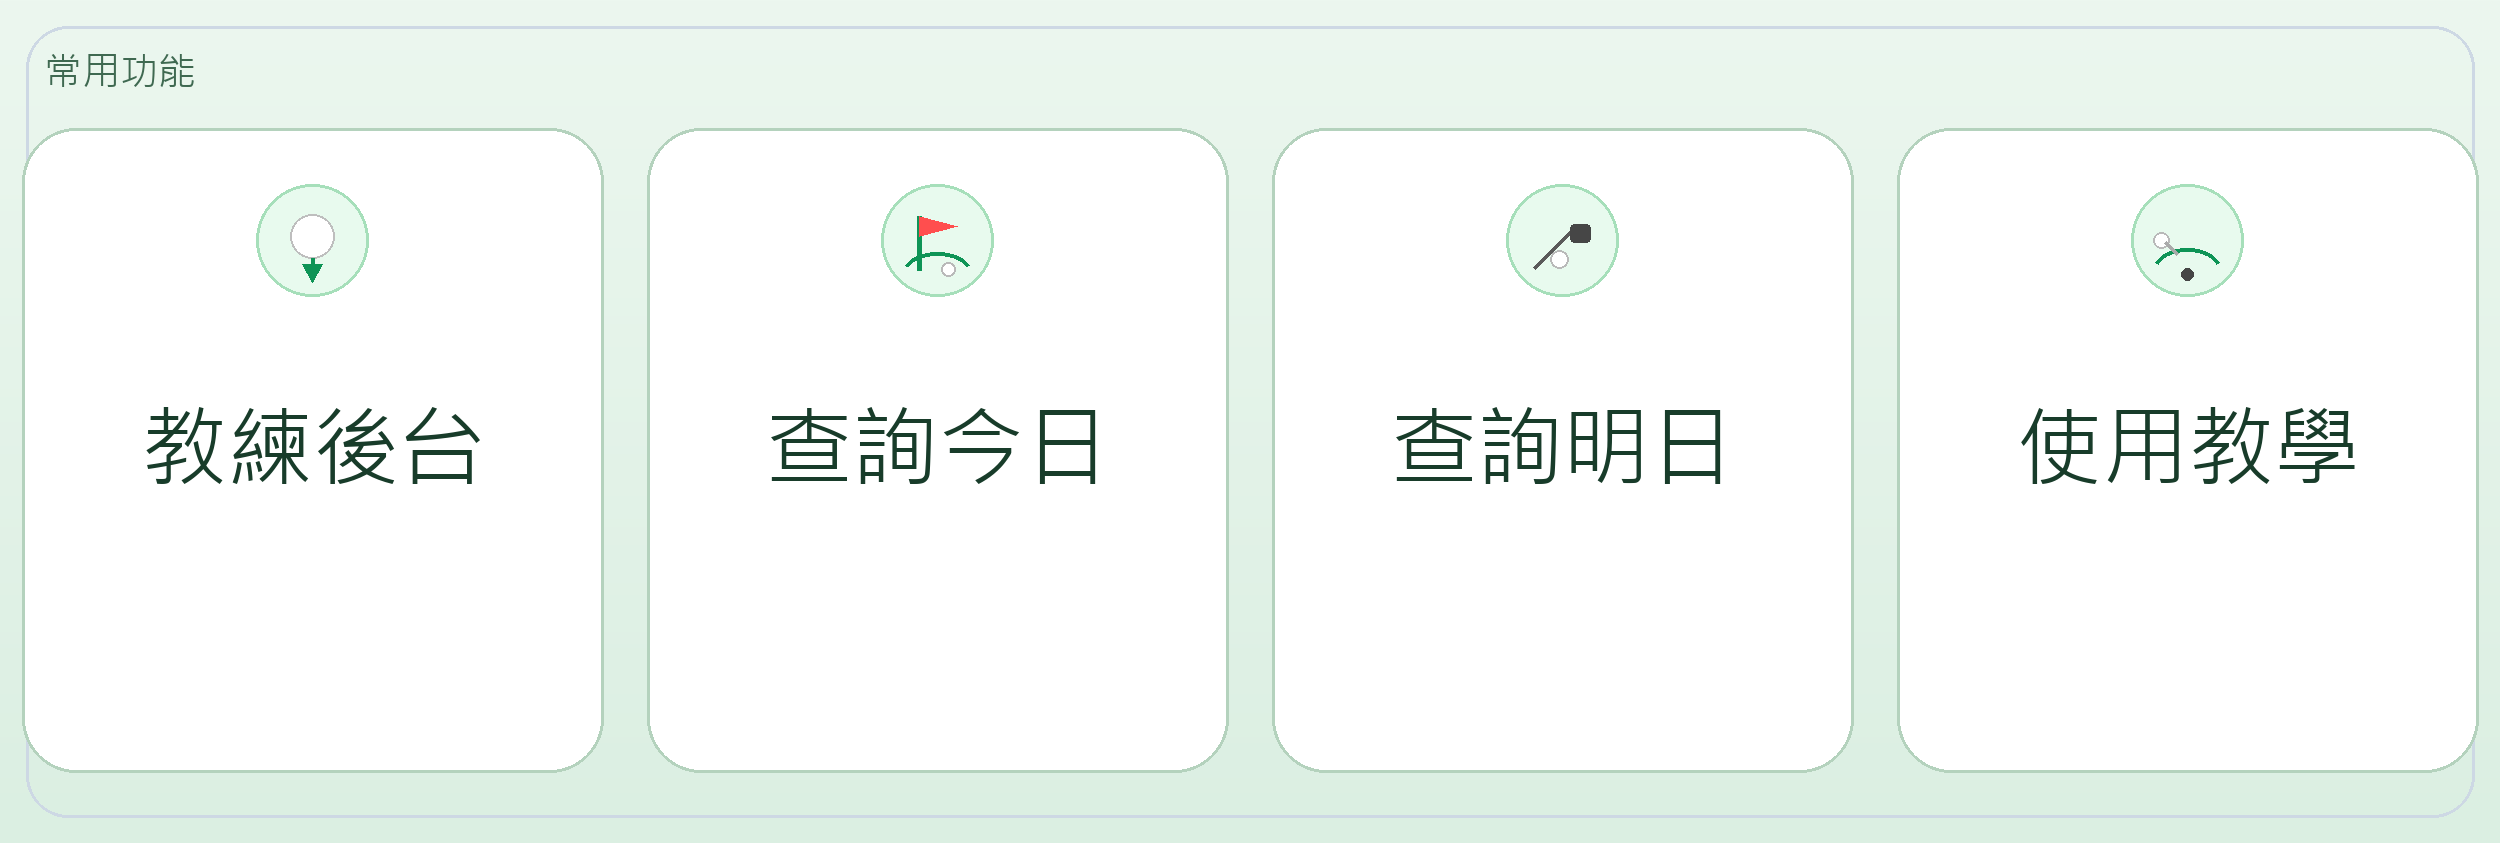
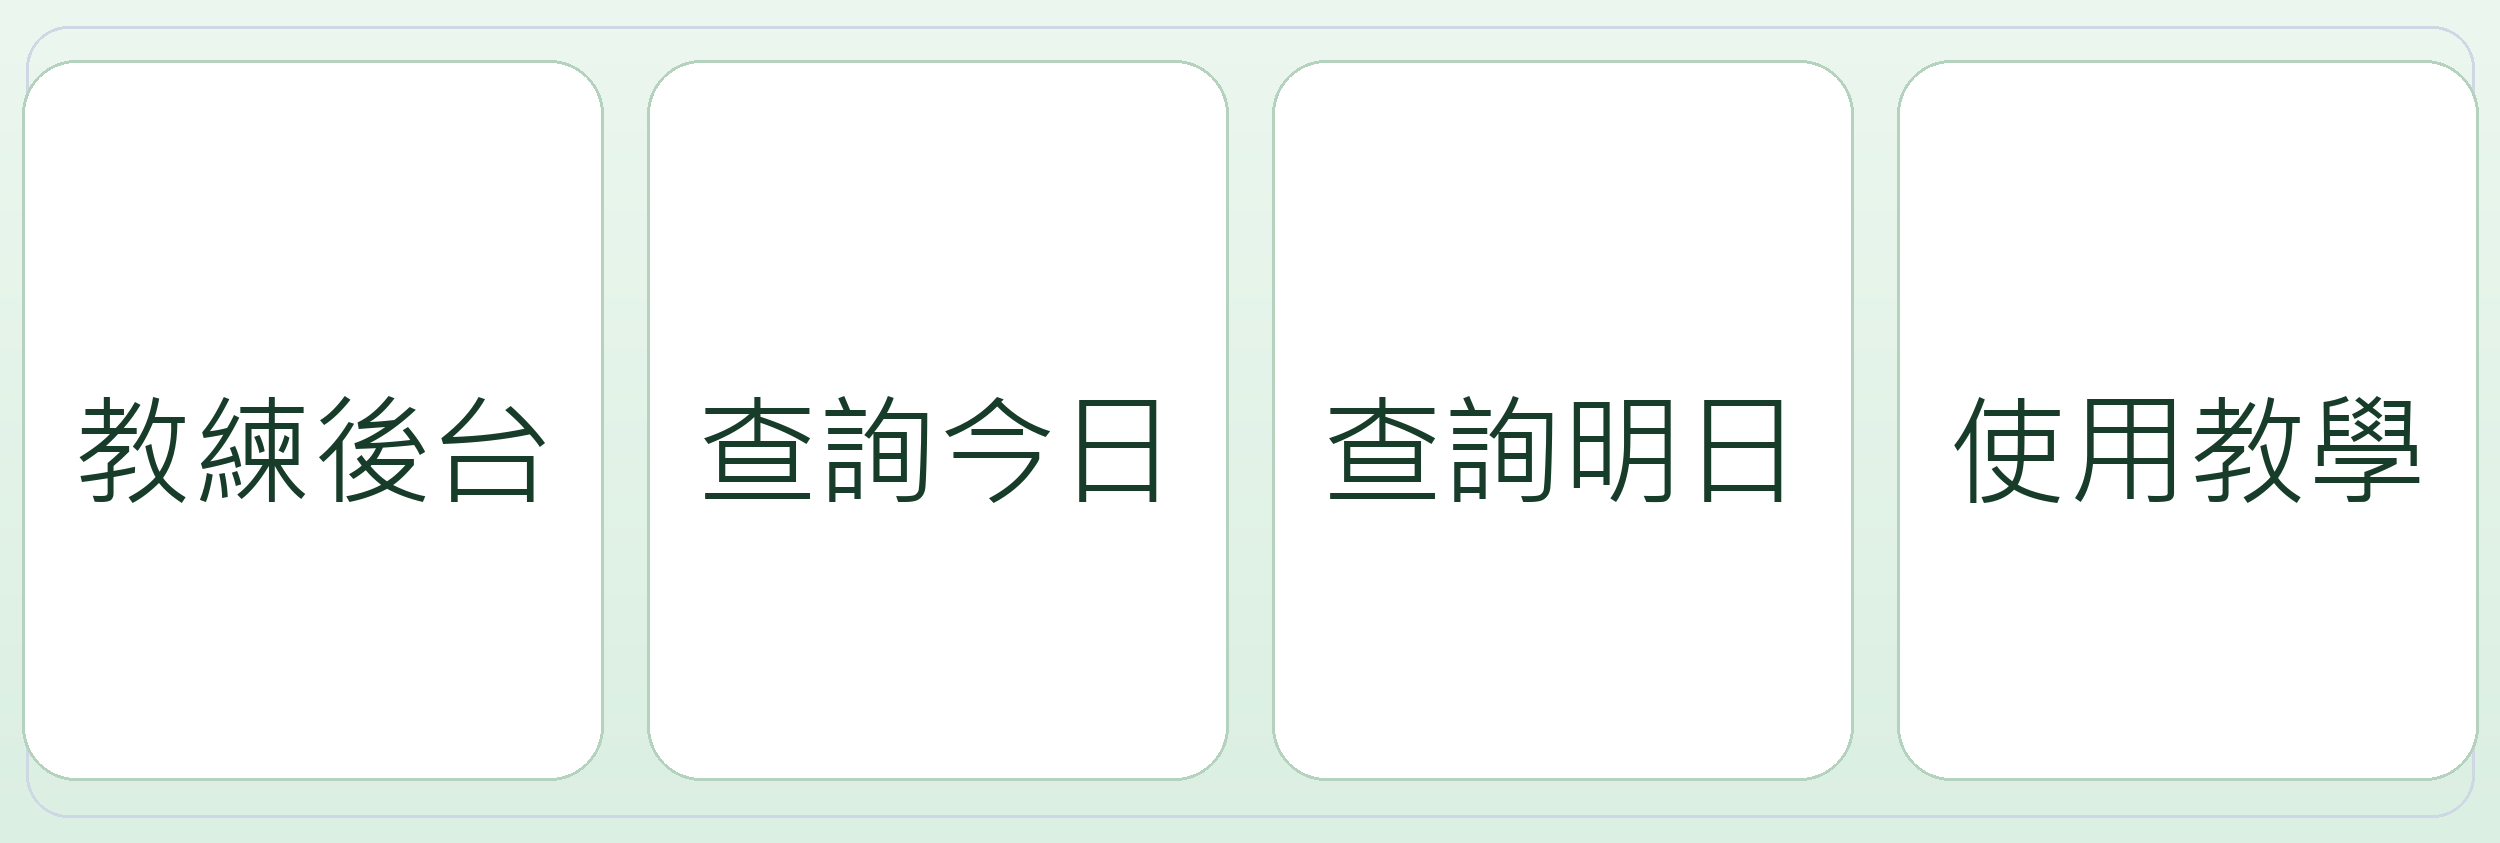
feat: Split deduct/add tabs, auto-ask name, deduct creates booking, revenue date filter, rich menu redesign
- Split coach credit tab into separate deduct and add-credit pages
- Auto-ask new students for their real name on first message
- Deduct credits now creates a completed booking record for history tracking
- Revenue summary API supports from/to date range filter
- Rich menu: larger text, no icons
- Deploy to correct GCP project (golf-coach-aebcd)

diff --git a/rebuild/liff/coach/index.html b/rebuild/liff/coach/index.html
@@ -8,7 +8,7 @@
   <title>高爾夫預約</title>
   <script src="https://static.line-scdn.net/liff/edge/2/sdk.js"></script>
   <script>
-    window.APP_VERSION = '20260407-224639';
+    window.APP_VERSION = '20260408-201552';
     (function forceLatestVersion() {
       try {
         const url = new URL(window.location.href);
@@ -109,22 +109,30 @@
   <div id="loading">載入中...</div>
   <div id="coachApp" class="hidden">
     <div class="tabs">
-      <span class="tab active" data-tab="credit">扣課/加課</span>
+      <span class="tab active" data-tab="deduct">扣課</span>
+      <span class="tab" data-tab="addcredit">加課</span>
       <span class="tab" data-tab="students">學員明細</span>
       <span class="tab" data-tab="schedule">上課時間</span>
       <span class="tab" data-tab="leave">休假設定</span>
       <span class="tab" data-tab="revenue">收入統計</span>
     </div>
-    <div id="credit" class="card">
-      <h2>扣課 / 加課</h2>
-      <select id="studentSelect"><option value="">請選擇學員</option></select>
-      <input type="number" id="creditAmount" placeholder="堂數（正數加課、負數扣課）">
-      <input type="text" id="creditRealName" placeholder="本名（加課時填，用於核銷）">
-      <input type="date" id="creditStartDate" placeholder="起始日期">
-      <input type="number" id="creditPrice" placeholder="金額（選填，NT$）">
-      <input type="text" id="creditNote" placeholder="備註（方案名稱，選填）">
-      <input type="text" id="creditLessonNote" placeholder="上課內容（扣課時填，例如：練習推桿）">
-      <button id="btnCredit">送出</button>
+    <div id="deduct" class="card">
+      <h2>扣課</h2>
+      <select id="deductStudentSelect"><option value="">請選擇學員</option></select>
+      <input type="number" id="deductAmount" placeholder="扣課堂數" min="1">
+      <input type="text" id="deductLessonNote" placeholder="上課內容（例如：練習推桿）">
+      <input type="text" id="deductNote" placeholder="備註（選填）">
+      <button id="btnDeduct">扣課</button>
+    </div>
+    <div id="addcredit" class="card hidden">
+      <h2>加課（開課）</h2>
+      <select id="addStudentSelect"><option value="">請選擇學員</option></select>
+      <input type="number" id="addAmount" placeholder="堂數" min="1">
+      <input type="text" id="addRealName" placeholder="本名（用於核銷）">
+      <input type="date" id="addStartDate" placeholder="起始日期">
+      <input type="number" id="addPrice" placeholder="金額（NT$）">
+      <input type="text" id="addNote" placeholder="方案名稱（選填）">
+      <button id="btnAddCredit">開課</button>
     </div>
     <div id="students" class="card hidden">
       <h2>學員明細</h2>
@@ -171,6 +179,12 @@
     </div>
     <div id="revenue" class="card hidden">
       <h2>收入統計</h2>
+      <div class="schedule-toolbar" style="margin-bottom:12px;">
+        <input type="date" id="revenueFrom" style="flex:1;min-width:130px;">
+        <input type="date" id="revenueTo" style="flex:1;min-width:130px;">
+        <button type="button" id="btnSearchRevenue" class="btn-secondary">查詢區間</button>
+        <button type="button" id="btnRevenueAll" class="btn-secondary">全部</button>
+      </div>
       <div id="revenueSummary" style="display:grid; grid-template-columns:1fr 1fr 1fr; gap:10px; margin-bottom:16px;">
         <div style="background:#e8f5e9; border-radius:10px; padding:12px; text-align:center;">
           <div style="font-size:12px; color:#666;">預收現金</div>
@@ -381,18 +395,20 @@
 
     async function loadStudents() {
       const listDiv = document.getElementById('studentList');
-      const sel = document.getElementById('studentSelect');
+      const deductSel = document.getElementById('deductStudentSelect');
+      const addSel = document.getElementById('addStudentSelect');
       listDiv.innerHTML = '<p class="muted">載入學員資料中...</p>';
       try {
         const res = await fetch(`${API_URL}/api/liff/students?userId=${userId}`);
         const { students } = await res.json();
-        sel.innerHTML = '<option value="">請選擇學員</option>';
+        const optionsHtml = '<option value="">請選擇學員</option>';
+        deductSel.innerHTML = optionsHtml;
+        addSel.innerHTML = optionsHtml;
         const rows = (students || []).map(s => {
           const label = s.alias || s.displayName || s.lineUserId;
-          const opt = document.createElement('option');
-          opt.value = s.lineUserId;
-          opt.textContent = `${label} (${s.lineUserId.slice(0, 8)}...)`;
-          sel.appendChild(opt);
+          const optText = `${label} (${s.lineUserId.slice(0, 8)}...)`;
+          deductSel.appendChild(Object.assign(document.createElement('option'), { value: s.lineUserId, textContent: optText }));
+          addSel.appendChild(Object.assign(document.createElement('option'), { value: s.lineUserId, textContent: optText }));
           return {
             lineUserId: s.lineUserId,
             label,
@@ -602,16 +618,18 @@
       document.querySelectorAll('#coachApp .tab').forEach(t => {
         t.addEventListener('click', () => {
           document.querySelectorAll('#coachApp .tab').forEach(x => x.classList.remove('active'));
-          document.querySelectorAll('#credit, #students, #schedule, #leave, #revenue').forEach(x => x.classList.add('hidden'));
+          document.querySelectorAll('#deduct, #addcredit, #students, #schedule, #leave, #revenue').forEach(x => x.classList.add('hidden'));
           t.classList.add('active');
           document.getElementById(t.dataset.tab).classList.remove('hidden');
           if (t.dataset.tab === 'students') loadStudents();
           if (t.dataset.tab === 'schedule') { loadCoachSchedule(); loadFixedSchedules(); }
-          if (t.dataset.tab === 'revenue') loadRevenue();
+          if (t.dataset.tab === 'revenue') loadRevenue(document.getElementById('revenueFrom').value, document.getElementById('revenueTo').value);
         });
       });
       document.getElementById('btnReloadStudents').addEventListener('click', () => loadStudents());
       document.getElementById('btnSearchSchedule').addEventListener('click', () => loadCoachSchedule());
+      document.getElementById('btnSearchRevenue').addEventListener('click', () => loadRevenue(document.getElementById('revenueFrom').value, document.getElementById('revenueTo').value));
+      document.getElementById('btnRevenueAll').addEventListener('click', () => { document.getElementById('revenueFrom').value = ''; document.getElementById('revenueTo').value = ''; loadRevenue(); });
       document.getElementById('btnAddFixed').addEventListener('click', async () => {
         const weekday = document.getElementById('fixedWeekday').value;
         const startTime = document.getElementById('fixedStartTime').value;
@@ -710,54 +728,56 @@
         onlyWithRemaining = !!e.target.checked;
         renderStudentDetails();
       });
-      document.getElementById('btnCredit').addEventListener('click', async () => {
-        const targetUserId = document.getElementById('studentSelect').value;
-        const amount = parseInt(document.getElementById('creditAmount').value, 10);
-        const note = document.getElementById('creditNote').value.trim();
-        const lessonNote = document.getElementById('creditLessonNote').value.trim();
-        const realName = document.getElementById('creditRealName').value.trim();
-        const startDate = document.getElementById('creditStartDate').value;
-        const price = document.getElementById('creditPrice').value;
-        if (!targetUserId || !amount) { showToast('請選擇學員並輸入堂數', 'error'); return; }
-        document.getElementById('btnCredit').disabled = true;
-        const isAdd = amount > 0;
+      document.getElementById('btnDeduct').addEventListener('click', async () => {
+        const targetUserId = document.getElementById('deductStudentSelect').value;
+        const amount = parseInt(document.getElementById('deductAmount').value, 10);
+        const lessonNote = document.getElementById('deductLessonNote').value.trim();
+        const note = document.getElementById('deductNote').value.trim();
+        if (!targetUserId || !amount || amount <= 0) { showToast('請選擇學員並輸入扣課堂數', 'error'); return; }
+        document.getElementById('btnDeduct').disabled = true;
         try {
-          const url = isAdd ? `${API_URL}/api/liff/add-credits` : `${API_URL}/api/liff/deduct-credits`;
-          const body = isAdd
-            ? {
-                coachUserId: userId,
-                targetUserId,
-                credits: amount,
-                title: note || '手動加課',
-                validTo: null,
-                validFrom: startDate || null,
-                realName: realName || null,
-                price: price ? Number(price) : null,
-              }
-            : {
-                coachUserId: userId,
-                targetUserId,
-                amount: -amount,   // amount is negative, send positive
-                note: note || null,
-                lessonNote: lessonNote || null,
-              };
-          const res = await fetch(url, { method: 'POST', headers: { 'Content-Type': 'application/json' }, body: JSON.stringify(body) });
+          const res = await fetch(`${API_URL}/api/liff/deduct-credits`, {
+            method: 'POST', headers: { 'Content-Type': 'application/json' },
+            body: JSON.stringify({ coachUserId: userId, targetUserId, amount, note: note || null, lessonNote: lessonNote || null })
+          });
           const data = await res.json();
           if (data.ok) {
-            const msg = isAdd
-              ? '開課成功！已通知學員\n即將關閉視窗…'
-              : `扣課成功！剩餘 ${data.remaining} 堂\n即將關閉視窗…`;
-            showToast(msg, 'success', 2200);
-            setTimeout(() => {
-              try { if (liff.isInClient()) liff.closeWindow(); } catch(e) {}
-            }, 1800);
+            showToast(`扣課成功！剩餘 ${data.remaining} 堂\n即將關閉視窗…`, 'success', 2200);
+            setTimeout(() => { try { if (liff.isInClient()) liff.closeWindow(); } catch(e) {} }, 1800);
           } else {
-            showToast(data.error || '送出失敗，請重試', 'error');
-            document.getElementById('btnCredit').disabled = false;
+            showToast(data.error || '扣課失敗', 'error');
+            document.getElementById('btnDeduct').disabled = false;
           }
         } catch (e) {
           showToast('請確認網路連線', 'error');
-          document.getElementById('btnCredit').disabled = false;
+          document.getElementById('btnDeduct').disabled = false;
+        }
+      });
+      document.getElementById('btnAddCredit').addEventListener('click', async () => {
+        const targetUserId = document.getElementById('addStudentSelect').value;
+        const credits = parseInt(document.getElementById('addAmount').value, 10);
+        const realName = document.getElementById('addRealName').value.trim();
+        const startDate = document.getElementById('addStartDate').value;
+        const price = document.getElementById('addPrice').value;
+        const note = document.getElementById('addNote').value.trim();
+        if (!targetUserId || !credits || credits <= 0) { showToast('請選擇學員並輸入堂數', 'error'); return; }
+        document.getElementById('btnAddCredit').disabled = true;
+        try {
+          const res = await fetch(`${API_URL}/api/liff/add-credits`, {
+            method: 'POST', headers: { 'Content-Type': 'application/json' },
+            body: JSON.stringify({ coachUserId: userId, targetUserId, credits, title: note || '手動加課', validTo: null, validFrom: startDate || null, realName: realName || null, price: price ? Number(price) : null })
+          });
+          const data = await res.json();
+          if (data.ok) {
+            showToast('開課成功！已通知學員\n即將關閉視窗…', 'success', 2200);
+            setTimeout(() => { try { if (liff.isInClient()) liff.closeWindow(); } catch(e) {} }, 1800);
+          } else {
+            showToast(data.error || '開課失敗', 'error');
+            document.getElementById('btnAddCredit').disabled = false;
+          }
+        } catch (e) {
+          showToast('請確認網路連線', 'error');
+          document.getElementById('btnAddCredit').disabled = false;
         }
       });
       document.getElementById('btnLeave').addEventListener('click', async () => {
@@ -780,14 +800,17 @@
       });
     }
 
-    async function loadRevenue() {
+    async function loadRevenue(fromDate, toDate) {
       const listDiv = document.getElementById('revenueStudentList');
       listDiv.innerHTML = '<p class="muted">載入收入統計中...</p>';
       document.getElementById('revTotalPaid').textContent = '-';
       document.getElementById('revEarned').textContent = '-';
       document.getElementById('revUnearned').textContent = '-';
       try {
-        const res = await fetch(`${API_URL}/api/liff/revenue-summary?userId=${encodeURIComponent(userId)}`);
+        let url = `${API_URL}/api/liff/revenue-summary?userId=${encodeURIComponent(userId)}`;
+        if (fromDate) url += `&from=${encodeURIComponent(fromDate)}`;
+        if (toDate) url += `&to=${encodeURIComponent(toDate)}`;
+        const res = await fetch(url);
         const data = await res.json();
         if (!res.ok || data.error) {
           listDiv.innerHTML = `<p class="muted">${data.error || '載入失敗'}</p>`;

diff --git a/rebuild/src/routes/liff.ts b/rebuild/src/routes/liff.ts
@@ -1,4 +1,5 @@
 import { FastifyInstance } from 'fastify';
+import { getDb, admin } from '../config/firebase';
 import { getOrCreateUser, getUser, listStudentsWithAlias, setAlias } from '../services/user';
 import { getActivePackages, addCredits, deductCredits, getAllPackagesForRevenue } from '../services/package';
 import { addLeave, listLeaves } from '../services/coachLeave';
@@ -272,6 +273,25 @@ export async function liffRoutes(app: FastifyInstance): Promise<void> {
     } catch (err: any) {
       return reply.status(400).send({ ok: false, error: err.message ?? '扣課失敗' });
     }
+    // 扣課時同時建立 completed booking 紀錄，讓上課紀錄查得到
+    const deductDate = getDateInTaipei();
+    const nowTs = admin.firestore.FieldValue.serverTimestamp();
+    for (let i = 0; i < deductAmount; i++) {
+      await getDb().collection('bookings').add({
+        userId: targetUserId,
+        bookingDate: deductDate,
+        startTime: '00:00',
+        endTime: '01:00',
+        location: lessonNote || '手動扣課',
+        service: note || '手動扣課',
+        status: 'completed',
+        creditsUsed: 1,
+        cancelReason: null,
+        createdAt: nowTs,
+        updatedAt: nowTs,
+      });
+    }
+
     const studentUser = await getOrCreateUser(targetUserId);
     const studentDisplayName = studentUser?.displayName || undefined;
     const displayNote = lessonNote ? `${note || ''}${note ? ' · ' : ''}上課內容：${lessonNote}` : (note || undefined);
@@ -329,7 +349,11 @@ export async function liffRoutes(app: FastifyInstance): Promise<void> {
     if (!userId || !isCoach(userId)) {
       return reply.status(403).send({ error: 'Forbidden' });
     }
-    const packages = await getAllPackagesForRevenue();
+    const from = (req.query as any).from || '';
+    const to = (req.query as any).to || '';
+    let packages = await getAllPackagesForRevenue();
+    if (from) packages = packages.filter(p => (p.validFrom ?? '') >= from);
+    if (to) packages = packages.filter(p => (p.validFrom ?? '') <= to);
     const studentMap: Record<string, {
       name: string;
       totalPaid: number;

diff --git a/rebuild/src/handlers/webhook.ts b/rebuild/src/handlers/webhook.ts
@@ -3,7 +3,7 @@ import { replyMessage, replyButtons, isCoach, getLineClient } from '../services/
 import { getBookingsByUser, getBookingsByDate, getBooking, approveBooking, rejectBooking, cancelBooking } from '../services/booking';
 import { getActivePackages } from '../services/package';
 import { env } from '../config/env';
-import { getUser } from '../services/user';
+import { getUser, setAlias, getOrCreateUser } from '../services/user';
 import { notifyStudentBookingApproved, notifyStudentBookingRejected, notifyCoachesStudentCancelled } from '../services/notification';
 import { getFixedSessionsOnDate } from '../services/fixedSchedule';
 
@@ -218,7 +218,30 @@ async function handleCoachMessage(userId: string, text: string, replyToken: stri
   }
 }
 
+const pendingNameSet = new Set<string>();
+
 async function handleStudentMessage(userId: string, text: string, replyToken: string): Promise<void> {
+  // 如果正在等待輸入本名
+  if (pendingNameSet.has(userId)) {
+    const name = text.trim();
+    if (name.length >= 2 && name.length <= 20) {
+      await setAlias(userId, name);
+      pendingNameSet.delete(userId);
+      await replyMessage(replyToken, `✅ 已記錄您的本名：${name}\n\n歡迎使用高爾夫預約系統！輸入「使用教學」查看功能說明。`);
+      return;
+    }
+    pendingNameSet.delete(userId);
+  }
+
+  // 確保 user 存在，沒有的話先建立
+  const user = await getOrCreateUser(userId);
+  // 檢查是否有設定本名，沒有的話請學員輸入
+  if (!user.alias) {
+    pendingNameSet.add(userId);
+    await replyMessage(replyToken, '👋 您好！第一次使用請先輸入您的本名（中文全名），方便教練辨識您。');
+    return;
+  }
+
   if (text === '使用教學' || text === 'help' || text === '說明') {
     if (LIFF_STUDENT_URL) {
       await replyButtons(

diff --git a/rebuild/liff/student/index.html b/rebuild/liff/student/index.html
@@ -8,7 +8,7 @@
   <title>學員專區</title>
   <script src="https://static.line-scdn.net/liff/edge/2/sdk.js"></script>
   <script>
-    window.APP_VERSION = '20260407-224639';
+    window.APP_VERSION = '20260408-201552';
     (function forceLatestVersion() {
       try {
         const url = new URL(window.location.href);

diff --git a/rebuild/scripts/generate-richmenu-images.py b/rebuild/scripts/generate-richmenu-images.py
@@ -61,7 +61,7 @@ def draw_golf_icon(draw: ImageDraw.ImageDraw, idx: int, cx: int, top: int):
 def draw_menu(labels, output_path: Path):
     img = Image.new("RGB", (WIDTH, HEIGHT), BG_TOP)
     draw = ImageDraw.Draw(img)
-    font = get_font(86)
+    font = get_font(120)
     small = get_font(38)
 
     # Soft vertical gradient background
@@ -73,19 +73,19 @@ def draw_menu(labels, output_path: Path):
         draw.line((0, y, WIDTH, y), fill=(r, g, b))
 
     draw.rounded_rectangle((26, 26, WIDTH - 26, HEIGHT - 26), radius=42, outline=(205, 216, 228), width=3)
-    draw.text((44, 44), "常用功能", font=small, fill=SUB)
 
     for i, label in enumerate(labels):
         x0 = i * BTN_W + 22
         x1 = (i + 1) * BTN_W - 22
-        y0, y1 = 128, 772
+        y0, y1 = 60, 780
         draw.rounded_rectangle((x0, y0, x1, y1), radius=54, fill=BTN, outline=BTN_BORDER, width=3)
         cx = (x0 + x1) // 2
-        draw_golf_icon(draw, i, cx, y0)
+        cy = (y0 + y1) // 2
         bbox = draw.textbbox((0, 0), label, font=font)
         tw = bbox[2] - bbox[0]
-        tx = x0 + (x1 - x0 - tw) / 2
-        ty = y0 + 258
+        th = bbox[3] - bbox[1]
+        tx = cx - tw / 2
+        ty = cy - th / 2
         draw.text((tx, ty), label, font=font, fill=TEXT)
 
     img.save(output_path, "PNG")
